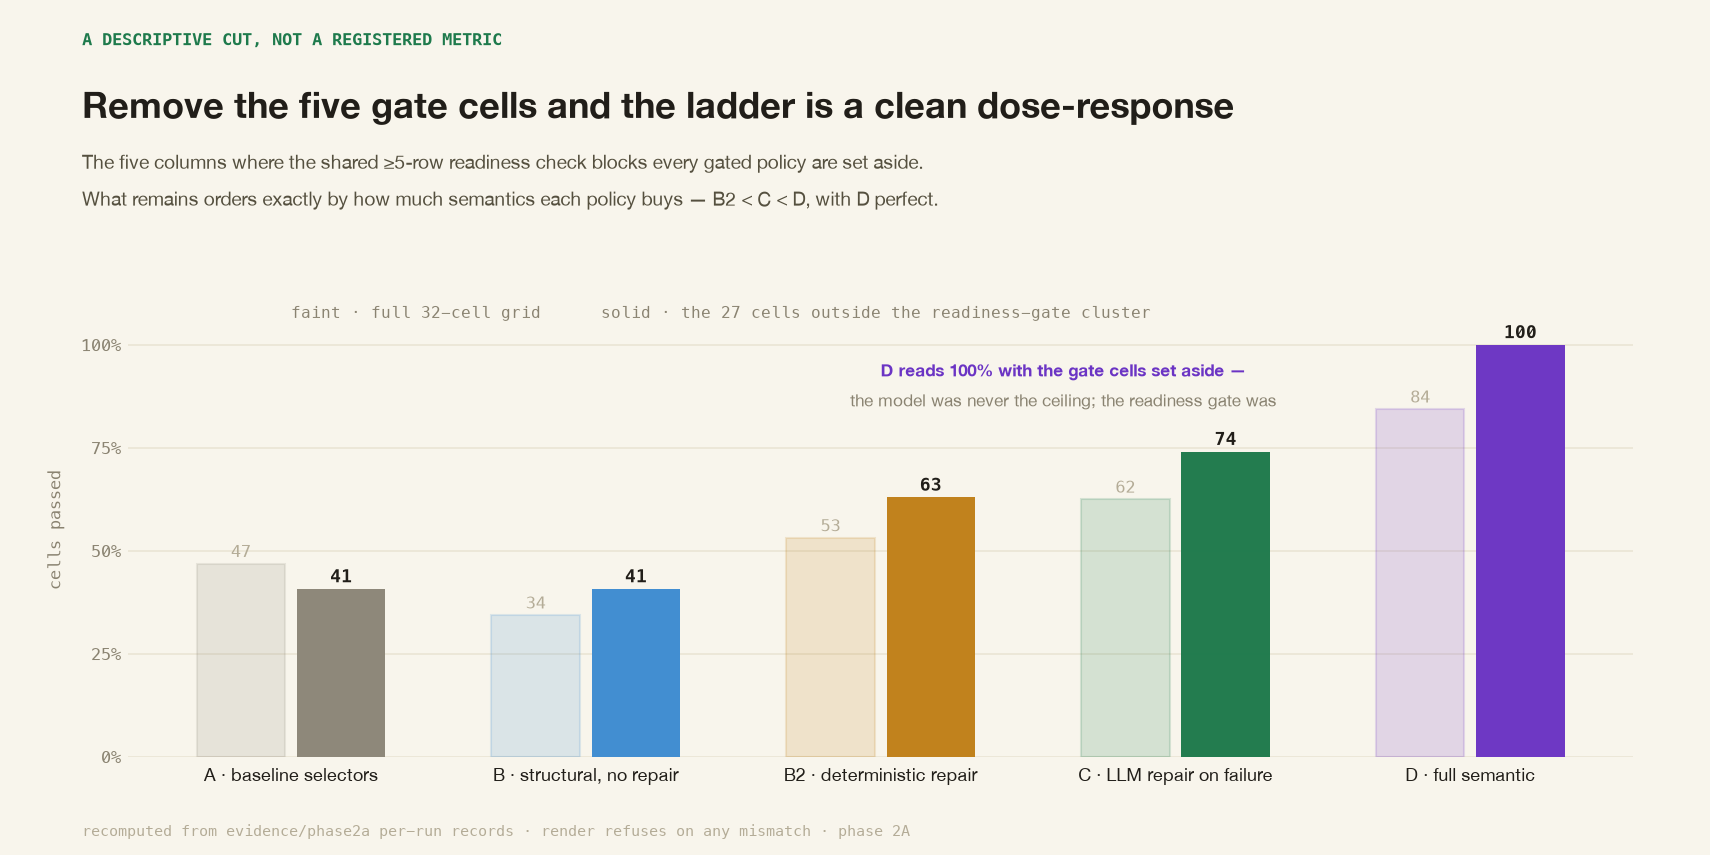
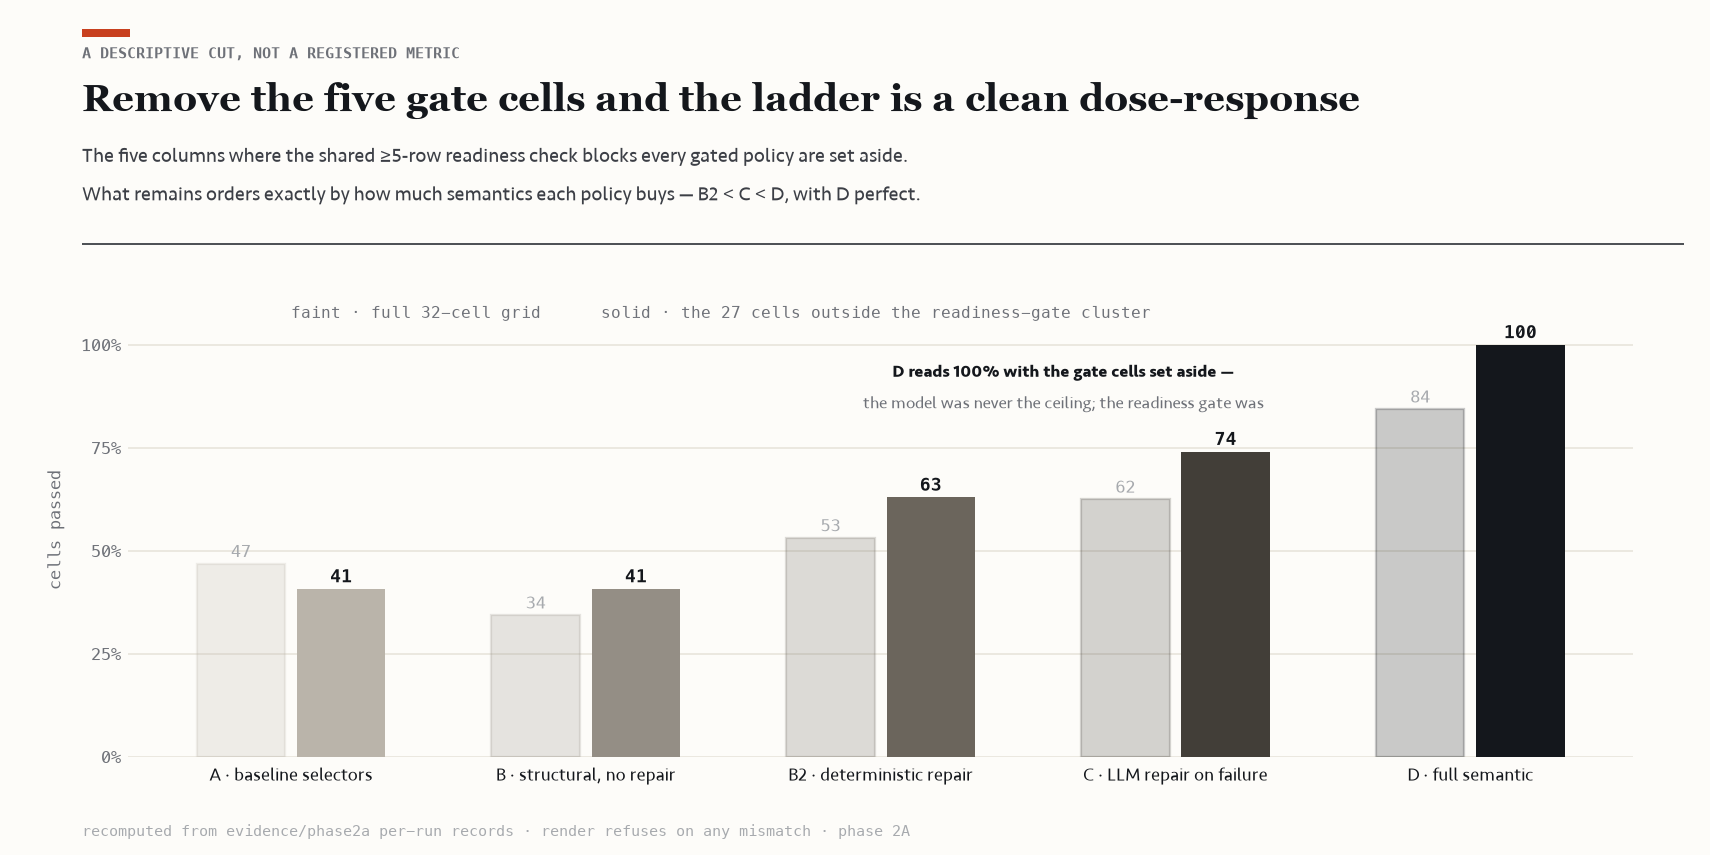
Adopt the broadsheet editorial chart style
Winner of a four-direction design exploration (newsroom serif, Swiss
geometric, literary serif, gallery minimal), judged on the rendered
output. The adopted direction: Georgia serif display over a vermilion
kicker tab and full-width hairline rule, ink-to-silver tile ramp that
encodes each policy's rung (vermilion reserved for failures and the
kicker), Seravek/Menlo supporting type. One graft from the runner-up:
scatter markers are open rings for zero-inference policies, filled for
paid ones. Copy, data, and the recompute-and-refuse gate unchanged;
fonts cascade to DejaVu on machines without the macOS faces.

diff --git a/scripts/render-phase2a-charts.py b/scripts/render-phase2a-charts.py
@@ -9,12 +9,12 @@ re-asserts the two structural claims the charts lean on: every cell is
 deterministic (0/5 or 5/5 across sweeps), and every keyless trial recorded
 zero LLM calls.
 
+Style variant: "newsroom graphics desk" (Economist/FT lineage, modernized).
+Presentation layer only — the data-integrity gate below is unchanged.
+
 Usage:
     python3 -m venv .venv && .venv/bin/pip install matplotlib
-    .venv/bin/python scripts/render-phase2a-charts.py
-
-Writes docs/img/outcome_map.png, docs/img/pass_vs_cost.png,
-docs/img/gate_effect.png.
+    .venv/bin/python render.py
 """
 
 from __future__ import annotations
@@ -28,7 +28,8 @@ import matplotlib
 
 matplotlib.use("Agg")
 import matplotlib.pyplot as plt
-from matplotlib.patches import FancyBboxPatch
+from matplotlib.patches import FancyBboxPatch, Rectangle
+from matplotlib.lines import Line2D
 
 REPO = Path(__file__).resolve().parents[1]
 EV = REPO / "evidence" / "phase2a"
@@ -114,19 +115,32 @@ def verify(cells, costs):
     return not bad
 
 
-# ── editorial style system ───────────────────────────────────────────────────
-BG = "#F8F5EC"
-INK = "#211E19"
-SUB = "#55503F"
-MUTED = "#8A8371"
-FAINT = "#B4AC97"
-GRID = "#EAE5D4"
-KICK = "#1E7A4C"
-PASS_C = "#1E7A4C"
-FAIL_C = "#A02B23"
+# ── newsroom graphics-desk style system ──────────────────────────────────────
+# Warm broadsheet paper, near-black ink, one signature vermilion. The five
+# policies carry no categorical colour: an ordered ink→silver gray ramp encodes
+# ladder position (darkest = D, lightest = A). Vermilion is reserved, strictly,
+# for the kicker tab, failure tiles, and story-critical marks.
+BG    = "#FDFCF9"   # warm near-white paper
+INK   = "#14171C"   # near-black ink
+SUB   = "#3C3F46"   # subtitle / reading note
+MUTED = "#6E7178"   # secondary labels, ticks
+FAINT = "#A7AAAE"   # footnote, ghost figures
+GRID  = "#E8E4DB"   # hairline grid on paper
+RULE  = "#1F232A"   # header hairline rule
+VERM  = "#C8401F"   # signature vermilion — tab · failures · highlight
 
-SANS = ["Helvetica Neue", "Arial", "DejaVu Sans"]
-MONO = ["Menlo", "Courier New", "DejaVu Sans Mono"]
+# Ink→silver ladder ramp. Colour = rung, not category.
+POLICY_COLOR = {
+    "A":  "#BAB4AA",   # lightest silver
+    "B":  "#948E85",
+    "B2": "#6B655C",
+    "C":  "#423E38",
+    "D":  "#14171C",   # darkest = ink
+}
+
+SERIF = ["Georgia", "Charter", "Palatino", "DejaVu Serif"]              # display headline
+SANS  = ["Seravek", "Avenir Next", "Helvetica Neue", "DejaVu Sans"]     # humanist body
+MONO  = ["Menlo", "Courier New", "DejaVu Sans Mono"]                    # every numeral
 
 POLICY_LABEL = {
     "A": "A · baseline selectors",
@@ -135,35 +149,56 @@ POLICY_LABEL = {
     "C": "C · LLM repair on failure",
     "D": "D · full semantic",
 }
-POLICY_COLOR = {
-    "A": "#8C8678", "B": "#3E8CD1", "B2": "#C08019", "C": "#1E7A4C", "D": "#6B34C4",
-}
 
 
-def glow_point(ax, x, y, color, s=52):
-    ax.scatter([x], [y], s=s * 2.6, color=color, alpha=0.14, lw=0, zorder=2)
-    ax.scatter([x], [y], s=s, color=color, lw=0, zorder=3)
+def dot(ax, x, y, color, s=66, filled=True):
+    """A crisp marker over a whisper of its own colour. Open ring = the
+    policy spends nothing on inference; filled = it pays per run."""
+    ax.scatter([x], [y], s=s * 3.6, color=color, alpha=0.06, lw=0, zorder=2)
+    if filled:
+        ax.scatter([x], [y], s=s, color=color, lw=0.7, edgecolors=BG, zorder=3)
+    else:
+        ax.scatter([x], [y], s=s, facecolors=BG, edgecolors=color, lw=1.6, zorder=3)
 
 
-def header(fig, kicker, title, sub, legend=None, title_y=0.905):
-    """Inspo-style header: tiny mono kicker, compact bold title, muted
-    reading-note subtitle, optional dot legend top-right."""
-    fig.text(0.048, 0.962, kicker, fontsize=8, family=MONO, color=KICK,
+def kicker_tab(fig, x0=0.048, y_top=0.966):
+    """The classic broadsheet red kicker tab — a ~48×8px vermilion rectangle
+    pinned to the very top-left of the figure."""
+    w_in, h_in = fig.get_size_inches()
+    tw = 48.0 / (w_in * fig.dpi)
+    th = 8.0 / (h_in * fig.dpi)
+    fig.add_artist(Rectangle((x0, y_top - th), tw, th, transform=fig.transFigure,
+                             facecolor=VERM, edgecolor="none", zorder=6, clip_on=False))
+
+
+def hairline(fig, y, x0=0.048, x1=0.985):
+    """0.75pt full-width rule under the header block."""
+    fig.add_artist(Line2D([x0, x1], [y, y], transform=fig.transFigure,
+                          color=RULE, lw=0.75, solid_capstyle="butt", zorder=4))
+
+
+def header(fig, kicker, title, sub, legend=None, title_y=0.905, rule_y=0.715):
+    """Broadsheet masthead: vermilion tab, mono eyebrow, serif display
+    headline, humanist-sans standfirst, then a hairline rule."""
+    x0 = 0.048
+    kicker_tab(fig)
+    fig.text(x0, 0.945, kicker, fontsize=7.1, family=MONO, color=MUTED,
              ha="left", va="top", fontweight="bold")
-    fig.text(0.048, title_y, title, fontsize=17.5, family=SANS,
-             fontweight="bold", color=INK, ha="left", va="top", linespacing=1.25)
-    fig.text(0.048, title_y - 0.075, sub, fontsize=9.2, family=SANS, color=SUB,
-             ha="left", va="top", linespacing=1.65)
+    fig.text(x0, title_y, title, fontsize=18, family=SERIF, fontweight="bold",
+             color=INK, ha="left", va="top", linespacing=1.06)
+    fig.text(x0, title_y - 0.066, sub, fontsize=9.4, family=SANS, color=SUB,
+             ha="left", va="top", linespacing=1.6)
+    hairline(fig, rule_y)
     if legend:
-        x = 0.955
+        x = 0.985
         for label, color in reversed(legend):
-            t = fig.text(x, 0.958, label, fontsize=8.4, family=SANS,
+            t = fig.text(x, 0.951, label, fontsize=8.4, family=SANS,
                          color=SUB, ha="right", va="top")
             fig.canvas.draw()
             bb = t.get_window_extent().transformed(fig.transFigure.inverted())
-            fig.text(bb.x0 - 0.007, 0.9535, "●", fontsize=7, color=color,
+            fig.text(bb.x0 - 0.009, 0.9475, "■", fontsize=6.6, color=color,
                      ha="right", va="top")
-            x = bb.x0 - 0.028
+            x = bb.x0 - 0.03
 
 
 def verdict(ax, x, y, line1, line2, color, ha="left"):
@@ -207,12 +242,11 @@ def chart_outcome_map(cells):
         y = len(POLICIES) - 1 - yi
         for sid in SCENARIOS:
             passed = all(p for _, p, _ in cells[pol][sid])
-            color = PASS_C if passed else FAIL_C
-            alpha = 0.85 if not passed else 0.42
+            color = POLICY_COLOR[pol] if passed else VERM
             ax.add_patch(FancyBboxPatch(
                 (xpos[sid] - 0.36, y - 0.28), 0.72, 0.56,
-                boxstyle="round,pad=0,rounding_size=0.10", mutation_aspect=0.62,
-                facecolor=color, alpha=alpha, edgecolor="none"))
+                boxstyle="round,pad=0,rounding_size=0.06", mutation_aspect=0.62,
+                facecolor=color, edgecolor="none"))
         npass = sum(all(p for _, p, _ in cells[pol][s]) for s in SCENARIOS)
         ax.text(x - gap + 0.7, y, f"{npass}/32", fontsize=8.8, family=MONO,
                 color=SUB, va="center", ha="left")
@@ -248,7 +282,7 @@ def chart_outcome_map(cells):
     verdict(ax, (f2[2] + f2[3]) / 2, -1.92,
             "C fails all six pure F2 decoy cells with 0 repair calls —",
             "wrong data looks like success, so the trigger never fires",
-            FAIL_C, ha="center")
+            VERM, ha="center")
     gx = (xpos["f3-page-size-3-a"] + xpos["f3-page-size-2-b"]) / 2
     verdict(ax, gx + 5.5, -1.92,
             "pages 3 and 2: the shared ≥5-row readiness check fails",
@@ -264,7 +298,7 @@ def chart_outcome_map(cells):
            "32 held-out scenarios × 5 policies: three failure regimes",
            "Each tile pools five sweeps; the grid repeats exactly, so the blocks are architecture, not noise. Class drift falls to\n"
            "deterministic repair. Silent decoys fall only to full semantics. The small-page cluster falls to nobody behind the readiness check.",
-           legend=[("passed all 5 sweeps", PASS_C), ("failed all 5", FAIL_C)])
+           legend=[("passed all 5 · tile shade = policy rung", "#6B655C"), ("failed all 5", VERM)])
     footnote(fig)
     fig.savefig(OUT / "outcome_map.png", facecolor=BG)
     plt.close(fig)
@@ -283,7 +317,7 @@ def chart_pass_vs_cost(cells, costs):
         npass = sum(all(p for _, p, _ in cells[pol][s]) for s in SCENARIOS)
         cost = sum(costs[pol]) / len(costs[pol]) if costs[pol] else 0.0
         pts[pol] = (cost, npass)
-        glow_point(ax, cost, npass, POLICY_COLOR[pol])
+        dot(ax, cost, npass, POLICY_COLOR[pol], filled=pol in KEYED)
 
     offsets = {"A": (0.022, 0.0), "B": (0.022, 0.0), "B2": (0.022, 0.0),
                "C": (0.022, 0.25), "D": (-0.026, 0.25)}
@@ -292,7 +326,7 @@ def chart_pass_vs_cost(cells, costs):
         dx, dy = offsets[pol]
         cost_lab = "$0 · zero model inference" if cost == 0 else f"${cost:.3f}/sweep"
         ax.text(cost + dx, npass + dy + 0.18, POLICY_LABEL[pol], fontsize=9,
-                family=SANS, fontweight="bold", color=POLICY_COLOR[pol],
+                family=SANS, fontweight="bold", color=INK,
                 ha=align.get(pol, "left"), va="bottom")
         ax.text(cost + dx, npass + dy + 0.05, f"{npass}/32 · {cost_lab}",
                 fontsize=8, family=MONO, color=MUTED,
@@ -315,7 +349,7 @@ def chart_pass_vs_cost(cells, costs):
     verdict(ax, 0.63, 17.6,
             "D's 7-cell edge over C is exactly the silent-decoy set, at 8.9× the spend —",
             "and the 5 cells D still fails are the shared readiness gate no spend can cross",
-            POLICY_COLOR["D"], ha="center")
+            INK, ha="center")
 
     header(fig,
            "FIVE POLICIES · ONE PIPELINE · 32 HELD-OUT SCENARIOS · EXACT-OUTPUT GRADED",
@@ -323,7 +357,7 @@ def chart_pass_vs_cost(cells, costs):
            "Cells passed against per-sweep inference cost. Up and left is better. Structural addressing without repair (B)\n"
            "lands under the hardcoded baseline; deterministic repair (B2) is the best free policy; LLM repair (C) adds three\n"
            "cells for twelve cents; full semantics (D) adds the seven decoy cells for a dollar.",
-           legend=None)
+           legend=None, rule_y=0.70)
     footnote(fig)
     fig.savefig(OUT / "pass_vs_cost.png", facecolor=BG)
     plt.close(fig)
@@ -339,11 +373,12 @@ def chart_gate_effect(cells):
 
     w = 0.30
     for i, pol in enumerate(POLICIES):
+        col = POLICY_COLOR[pol]
         full = sum(all(p for _, p, _ in cells[pol][s]) for s in SCENARIOS) / 32
         ex = sum(all(p for _, p, _ in cells[pol][s]) for s in SCENARIOS if s not in GATE5) / 27
-        ax.bar(i - w / 2 - 0.02, full * 100, w, facecolor=POLICY_COLOR[pol],
-               alpha=0.16, edgecolor=POLICY_COLOR[pol], lw=1.0)
-        ax.bar(i + w / 2 + 0.02, ex * 100, w, color=POLICY_COLOR[pol], alpha=0.98)
+        ax.bar(i - w / 2 - 0.02, full * 100, w, facecolor=col,
+               alpha=0.22, edgecolor=col, lw=1.1, zorder=2)
+        ax.bar(i + w / 2 + 0.02, ex * 100, w, color=col, zorder=3)
         ax.text(i - w / 2 - 0.02, full * 100 + 1.6, f"{full * 100:.0f}", fontsize=8,
                 family=MONO, color=FAINT, ha="center")
         ax.text(i + w / 2 + 0.02, ex * 100 + 1.6, f"{ex * 100:.0f}", fontsize=8.6,
@@ -352,7 +387,7 @@ def chart_gate_effect(cells):
     verdict(ax, 2.62, 97,
             "D reads 100% with the gate cells set aside —",
             "the model was never the ceiling; the readiness gate was",
-            POLICY_COLOR["D"], ha="center")
+            INK, ha="center")
 
     ax.set_xticks(range(len(POLICIES)))
     ax.set_xticklabels([POLICY_LABEL[p] for p in POLICIES], fontsize=8.6,
